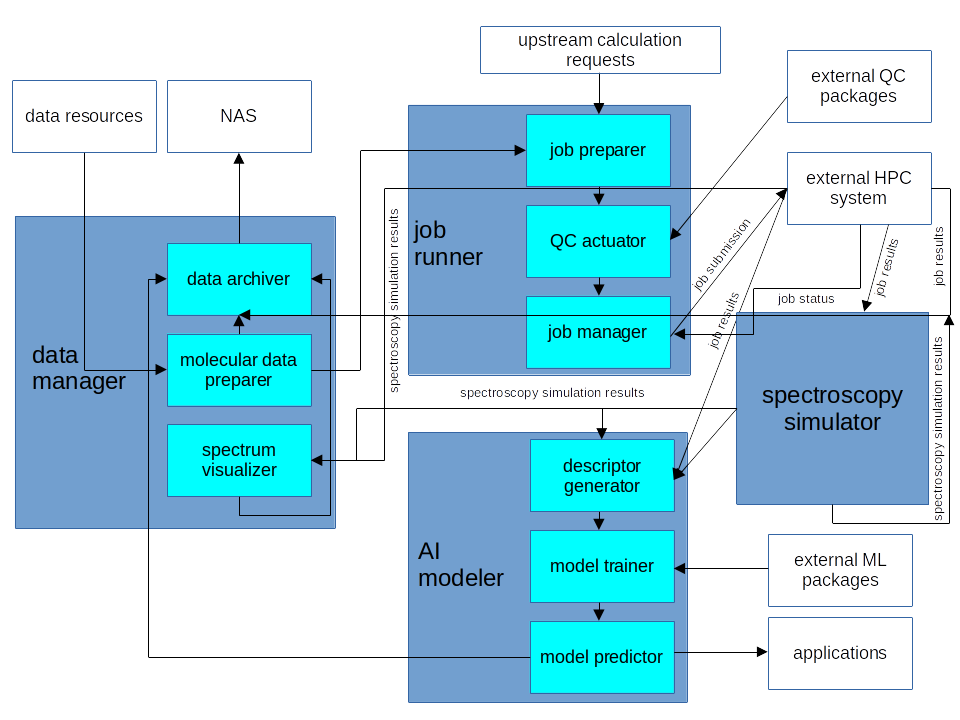
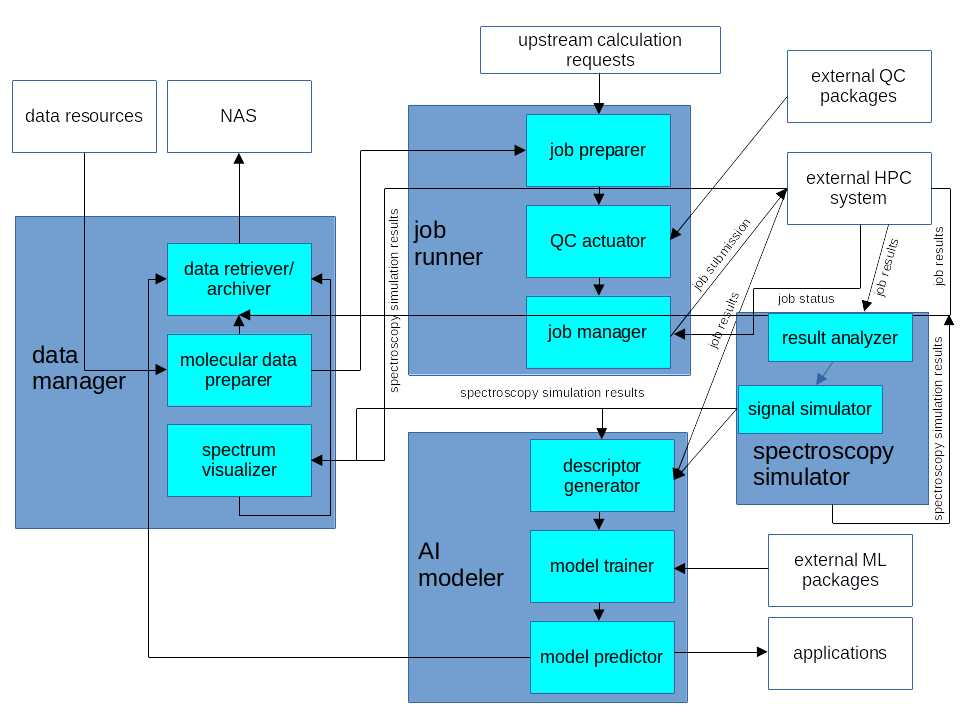
Submodules added in spectroscopy simulator in the package structure figure

Changed region(s): [[0.75, 0.4278, 0.9688, 0.6722], [0.1875, 0.3667, 0.3125, 0.4278]]

diff --git a/README.md b/README.md
@@ -55,7 +55,7 @@ As show in the diagram below,
 there are four main componets of SpecAI by design:
 
 1) Data manager. This module handles data collection, transformation, visualization and archiving. It has three submodules:
-   1. Data archiver. This submodule receives data from other modules. After some format processing, it sends the data to some external device, for example, Network Attached Storage (NAS) device, for storage and future reference.
+   1. Data archiver/retriever. This submodule receives data from other modules. After some format processing, it sends the data to some external device, for example, Network Attached Storage (NAS) device, for storage and future reference. It also provides an API to retrieve the data wanted.
    2. Molecular data preparer. This submodule extract molecular data (chemical constitution, geometry, property, etc) from external resources and reform the data according to the requirements of quantum chemistry calculation. It also sends the well-prepared molecular data to the archiver module for storage.
    3. Spectrum visualizer. This submodule receive spectroscopy simulation results from quantum chemistry calculations and visualize them for human's reference. It also send all the generated specta to data archiver.
 2) Job runner. This module takes in charge of quantum chemistry calculation job setup, submission, monitoring and final report. It has three submodules as the following:
